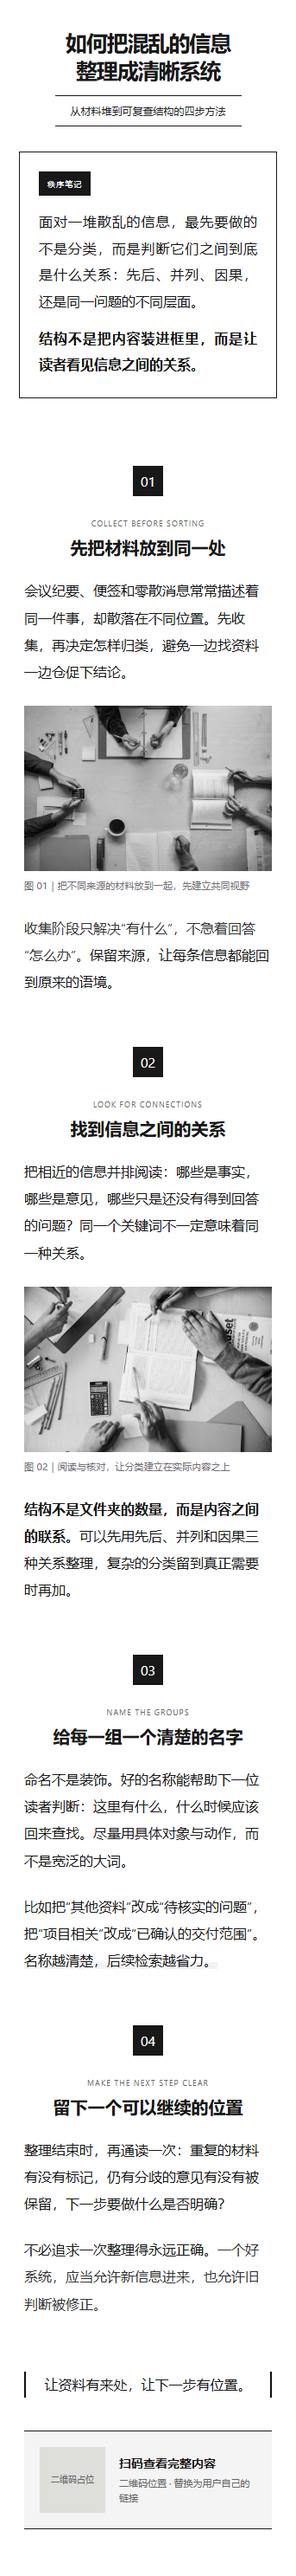
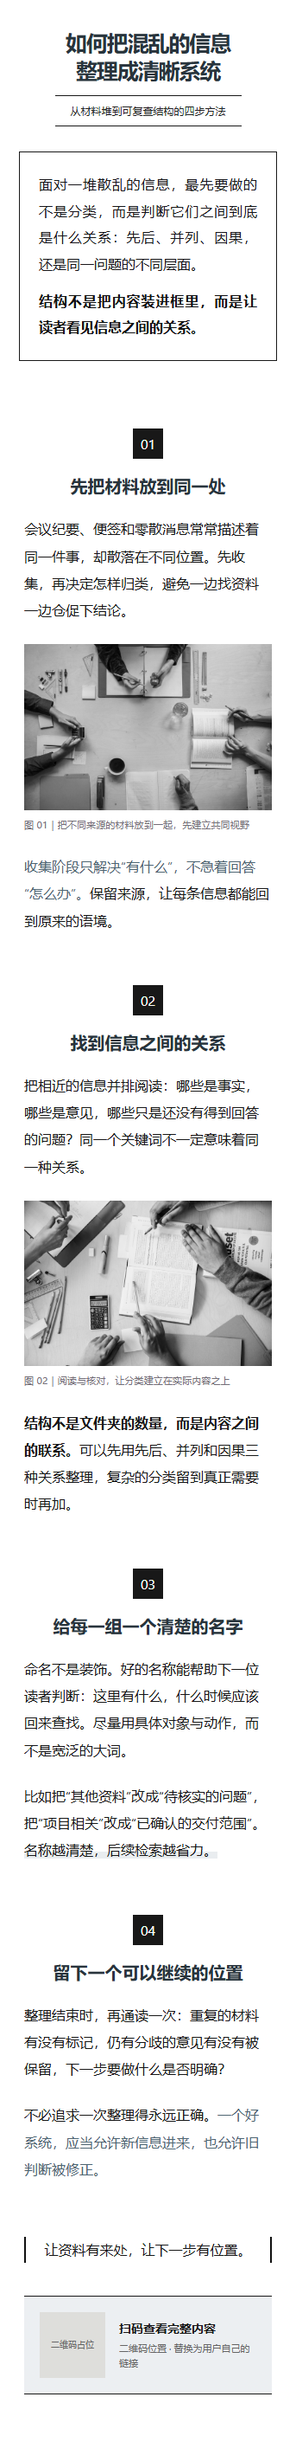
Refresh WeChat gallery previews without English decorations

Changed region(s): [[0.0583, 0.0, 0.9329, 0.6239], [0.0583, 0.6551, 0.8746, 0.9982]]

diff --git a/visual-island-test/wechat-templates.js b/visual-island-test/wechat-templates.js
@@ -1,7 +1,7 @@
 (()=>{'use strict';
  const R=window.WechatTemplateRegistry,ids=R.visibleIds||[];
  const desc={'mengyu-purple-editorial':'紫调摄影导语、正文配图与编辑节奏','pastel-art-editorial':'周末灵感导语、粉彩留白与轻盈记录','monochrome-order':'秩序笔记导语、黑白细线与信息层级','warm-orange-journal':'慢行手账导语、浅暖纸张与旅行叙事','warm-beige-lifestyle':'日常器物导语、暖米叠层与生活节奏',green:'自然观察导语、橄榄标签与舒展编注'};
-const templates=ids.map(id=>({id,name:R[id].name,desc:desc[id],image:'assets/showcase/wechat-template-'+id+'-full.png?v=spacing-035-final'}));
+const templates=ids.map(id=>({id,name:R[id].name,desc:desc[id],image:'assets/showcase/wechat-template-'+id+'-full.png?v=english-decor-049'}));
  const $=s=>document.querySelector(s),gallery=$('#templateGallery'),dialog=$('#fullPreviewDialog'),previewImage=$('#fullPreviewImage'),previewTitle=$('#fullPreviewTitle'),dialogEdit=$('#dialogEditLink'),dialogDownload=$('#dialogDownload'),toast=$('#templateToast');let active=templates[0];
  const esc=s=>String(s).replace(/[&<>"']/g,c=>({'&':'&amp;','<':'&lt;','>':'&gt;','"':'&quot;',"'":'&#39;'}[c]));
  gallery.innerHTML=templates.map(t=>`<article class="template-card" data-template-id="${t.id}"><button class="template-visual" type="button" data-preview="${t.id}" aria-label="预览${esc(t.name)}完整长图"><img src="${t.image}" alt="${esc(t.name)}R2公众号模板长图预览" loading="eager" decoding="async"><span>查看完整长图</span></button><div class="template-meta"><h2>${esc(t.name)}</h2><p>${esc(t.desc)}</p></div><div class="template-actions"><button type="button" data-preview="${t.id}">预览全图</button><a href="wechat-template-editor.html?template=${t.id}&new=1">编辑</a><button type="button" data-download="${t.id}">下载原版</button></div></article>`).join('');

diff --git a/visual-island-test/wechat-templates.html b/visual-island-test/wechat-templates.html
@@ -36,7 +36,7 @@
   </dialog>
   <div class="template-toast" id="templateToast" role="status" aria-live="polite"></div>
   <script src="homepage.js?v=site-catalog-006"></script>
-<script src="platform-account.js?v=activity-045"></script><script src="platform-workspace.js?v=activity-045"></script><script src="wechat-template-registry.js?v=runtime-018"></script><script src="wechat-templates.js?v=spacing-035-final"></script>
+<script src="platform-account.js?v=activity-045"></script><script src="platform-workspace.js?v=activity-045"></script><script src="wechat-template-registry.js?v=runtime-018"></script><script src="wechat-templates.js?v=english-decor-049"></script>
 </body>
 </html>
 
